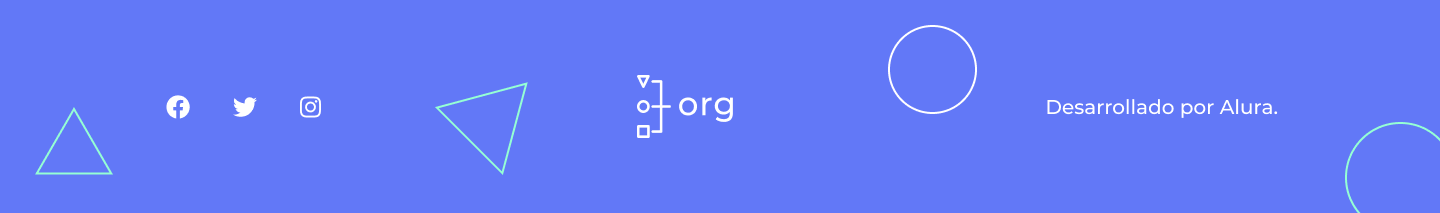
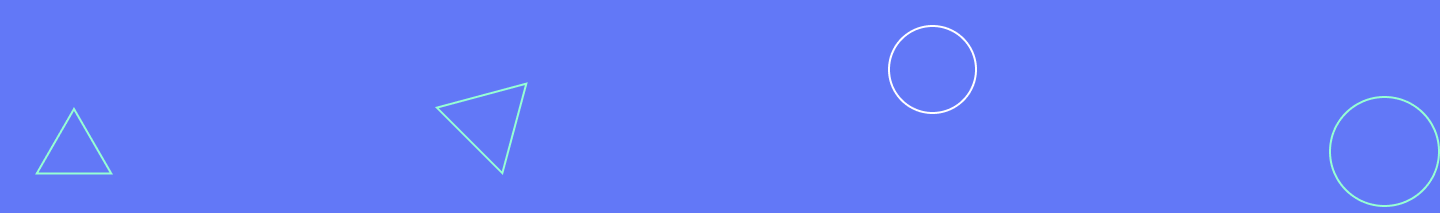
finalizando footer del proyecto

diff --git a/src/App.js b/src/App.js
@@ -8,7 +8,45 @@ import Footer from './componentes/Footer';
 
 function App() {
   const [mostrarFormulario, actualizarMostrar] = useState(true)
-  const [colaboradores, actualizarColaboradores] = useState([])
+  const [colaboradores, actualizarColaboradores] = useState([
+
+    {
+      equipo: "Front End",
+      foto: "https://github.com/alvarohamon.png",
+      nombre: "Alvaro Hamon",
+      puesto: "Desarrollador Front End"
+    },
+    {
+      equipo: "Front End",
+      foto: "https://github.com/harlandlohora.png",
+      nombre: "Harland Lohora",
+      puesto: "Instructor en Alura Latam"
+    },
+    {
+      equipo: "Programación",
+      foto: "https://github.com/genesysrm.png",
+      nombre: "Genesys Rondón",
+      puesto: "Desarrolladora de software e instructora"
+    },
+    {
+      equipo: "Data Science",
+      foto: "https://github.com/JeanmarieAluraLatam.png",
+      nombre: "Jeanmarie Quijada",
+      puesto: "Instructora en Alura Latam"
+    },
+    {
+      equipo: "Programación",
+      foto: "https://github.com/christianpva.png",
+      nombre: "Christian Velasco",
+      puesto: "Head de Alura e instructor"
+    },
+    {
+      equipo: "Data Science",
+      foto: "https://github.com/JoseDarioGonzalezCha.png",
+      nombre: "Jose Gonzalez",
+      puesto: "Dev. FullStack"
+    }
+  ])
 
   const cambiarMostrar = () => {
     actualizarMostrar(!mostrarFormulario)

diff --git a/src/componentes/Footer/index.jsx b/src/componentes/Footer/index.jsx
@@ -1,8 +1,20 @@
 import "./Footer.css"
 
-const Footer = ()=>{
-    return <footer className="footer">
-        <img src='/img/Footer.png' alt='Footer de Org'/>
+const Footer = () => {
+    return <footer className='footer' style={{ backgroundImage: "url(/img/footer.png)" }}>
+        <div className='redes'>
+            <a href='https://www.aluracursos.com/'>
+                <img src="/img/facebook.png" alt='Facebook' />
+            </a>
+            <a href='https://www.aluracursos.com/'>
+                <img src="/img/twitter.png" alt='twitter' />
+            </a>
+            <a href='https://www.aluracursos.com/'>
+                <img src="/img/instagram.png" alt='Instagram' />
+            </a>
+        </div>
+        <img src='/img/Logo.png' alt='org' />
+        <strong>Desarrollado por Alura</strong>
     </footer>
 }
 

diff --git a/src/componentes/Footer/Footer.css b/src/componentes/Footer/Footer.css
@@ -1,8 +1,17 @@
-.footer {
-  background: #6278f7;
-  text-align: center;
+.footer{
+  width: 100%;
+  display: flex;
+  padding: 5%;
+  align-items: center;
+  box-sizing: border-box;
+  background-size: cover;
+  background-position: center;
+  justify-content: space-between;
+  color: #fff;
+  font-family: 'Montserrat', sans-serif;
+  font-size: 20px;
 }
 
-.footer img {
-  max-width: 100%;
+.redes img{
+  padding: 0px 15px;
 }
